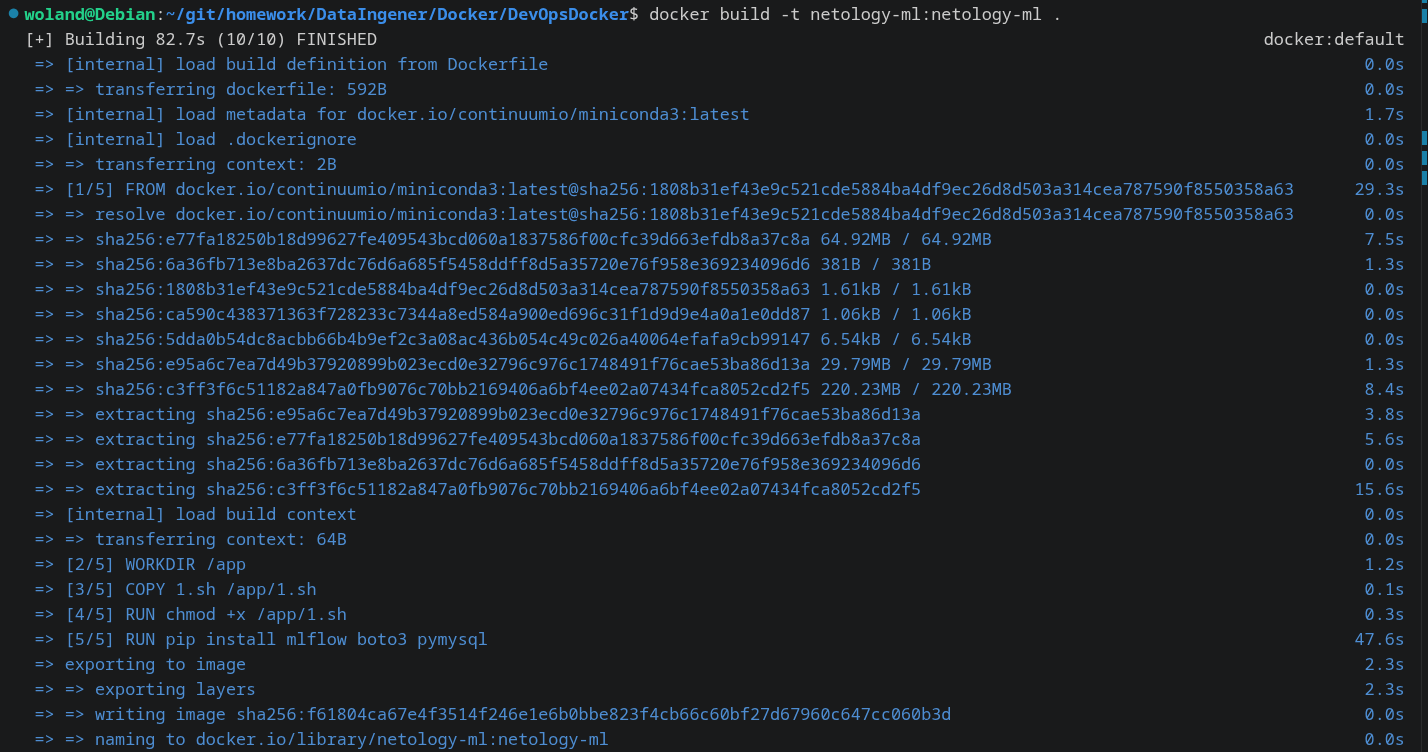
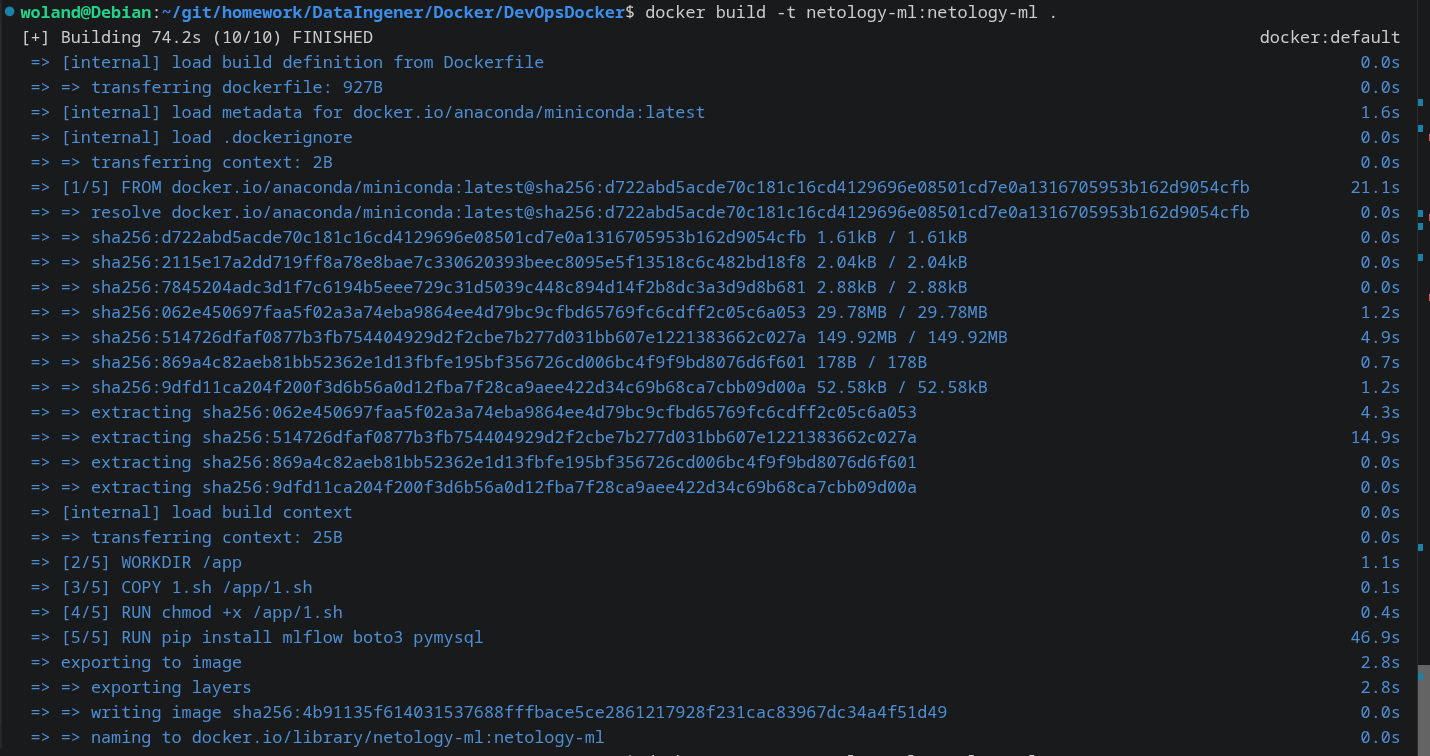
Final

Changed region(s): [[0.0, 0.0, 0.9244, 1.0], [0.8627, 0.0306, 1.0, 1.0], [0.986, 0.0, 1.0, 0.0306]]

diff --git a/README.md b/README.md
@@ -26,11 +26,27 @@ echo "Hello Netology"
 
 ### Создание Dockerfile:
 ```dockerfile
-FROM continuumio/miniconda3:latest
+# 1. Используем официальный актуальный образ
+FROM anaconda/miniconda:latest
+
+# Принимаем условия использования Miniconda
+# Это необходимо для бесперебойной работы, особенно при установке через conda
+ENV CONDA_PLUGINS_AUTO_ACCEPT_TOS=true
+
+# 2. Создаем и делаем рабочей папку /app
 WORKDIR /app
+
+# 3. Копируем файл 1.sh в контейнер
 COPY 1.sh /app/1.sh
+
+# 4. Выдаем права на исполнение
 RUN chmod +x /app/1.sh
+
+# 5. Устанавливаем необходимые пакеты Python через pip
+# (pip в этом образе предустановлен)
 RUN pip install mlflow boto3 pymysql
+
+# 6. Запускаем скрипт при старте контейнера
 CMD ["/app/1.sh"]
 ```
 
